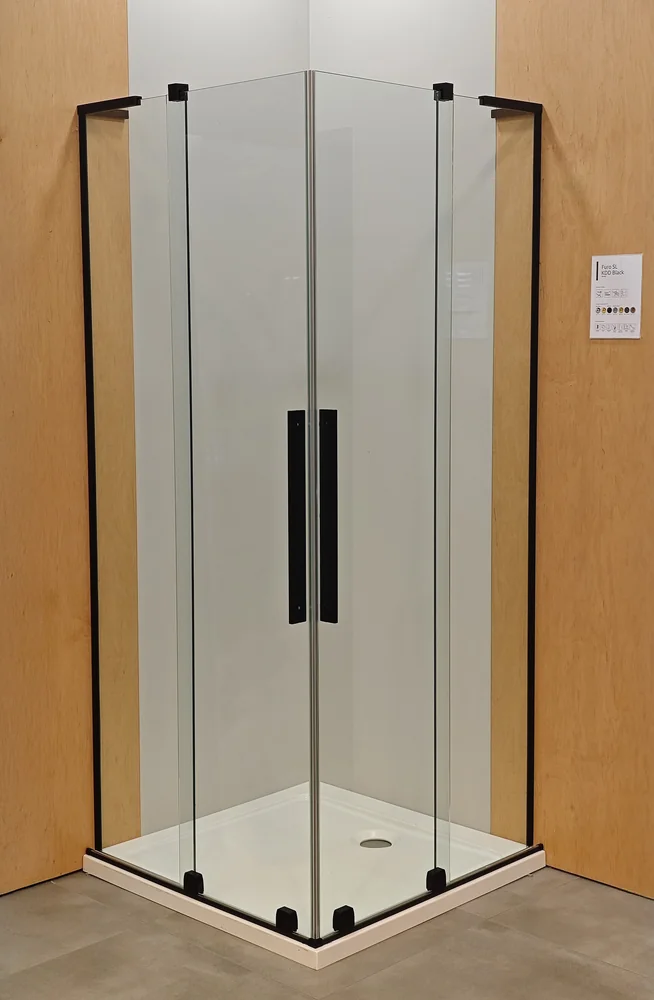
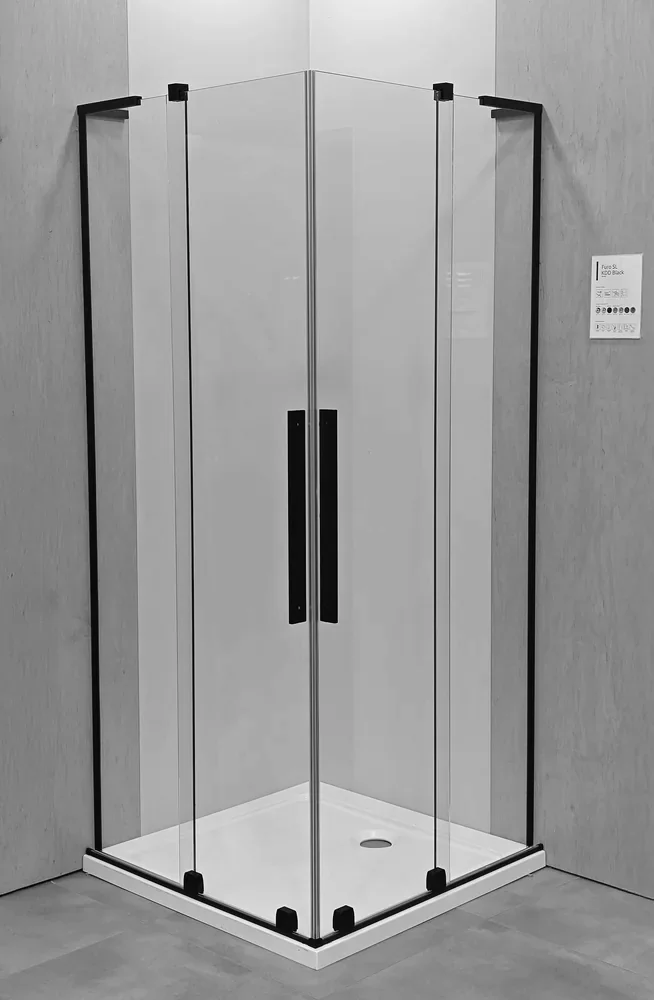
feat(render): le foto di FORMA (persiane, pergole, doccia/vasca/sanitari/mobili) diventano bianco e nero
Nella verifica in produzione le persiane 'nero intenso' sono uscite marrone
scuro: la foto di riferimento del tipo (persiana in legno verde/marrone)
tirava il colore. Le foto che servono solo per la forma ora sono in bianco e
nero, e l'etichetta lo dice al modello: colore e materiale vengono dal testo.
Restano a colori le texture (tetto, pavimenti, piastrelle, facciata) e le
sezioni dei profili, dove il colore E' l'informazione.

diff --git a/shared/render-references/bathroomReferences.ts b/shared/render-references/bathroomReferences.ts
@@ -67,19 +67,19 @@ export function collectBathroomReferenceImages(config: BathroomReferenceConfig):
   const s = (config.sostituzione ?? {}) as Record<string, unknown>;
   if ((s.doccia === true || config.doccia?.attivo) && config.doccia?.tipo && SHOWER_TYPE_REFERENCES[config.doccia.tipo]) {
     const e = SHOWER_TYPE_REFERENCES[config.doccia.tipo];
-    out.push(makeReferenceImage(BATHROOM_FOLDER, e.filename, `SHOWER TYPE TARGET — ${config.doccia.tipo}: ${e.shape}. Copy the construction and glass layout; finishes come from the written specification`));
+    out.push(makeReferenceImage(BATHROOM_FOLDER, e.filename, `SHOWER TYPE TARGET — ${config.doccia.tipo}: ${e.shape}. Copy the construction and glass layout — the photo is deliberately black-and-white: finishes and colours come from the written specification`));
   } else if ((s.vasca === true || config.vasca?.attivo) && config.vasca?.tipo && BATHTUB_TYPE_REFERENCES[config.vasca.tipo]) {
     const e = BATHTUB_TYPE_REFERENCES[config.vasca.tipo];
-    out.push(makeReferenceImage(BATHROOM_FOLDER, e.filename, `BATHTUB TYPE TARGET — ${config.vasca.tipo}: ${e.shape}. Copy the construction; colour and material come from the written specification`));
+    out.push(makeReferenceImage(BATHROOM_FOLDER, e.filename, `BATHTUB TYPE TARGET — ${config.vasca.tipo}: ${e.shape}. Copy the construction — the photo is deliberately black-and-white: colour and material come from the written specification`));
   } else if ((s.sanitari === true || config.sanitari?.attivo) && config.sanitari?.azione_wc === "sostituisci" && (config.sanitari?.tipo_wc === "sospeso" || config.sanitari?.tipo_wc === "rimless_sospeso")) {
     const e = SANITARY_REFERENCES.wc_sospeso;
-    out.push(makeReferenceImage(BATHROOM_FOLDER, e.filename, `TOILET TYPE TARGET — ${config.sanitari.tipo_wc}: ${e.shape}. Copy the wall-hung construction; colour from the written specification`));
+    out.push(makeReferenceImage(BATHROOM_FOLDER, e.filename, `TOILET TYPE TARGET — ${config.sanitari.tipo_wc}: ${e.shape}. Copy the wall-hung construction — the photo is deliberately black-and-white: colour from the written specification`));
   } else if ((s.sanitari === true || config.sanitari?.attivo) && (config.sanitari?.azione_bidet === "sostituisci" || config.sanitari?.azione_bidet === "aggiungi") && config.sanitari?.tipo_bidet === "sospeso") {
     const e = SANITARY_REFERENCES.bidet_sospeso;
     out.push(makeReferenceImage(BATHROOM_FOLDER, e.filename, `BIDET TYPE TARGET — sospeso: ${e.shape}`));
   } else if ((s.mobile_bagno === true || config.vanity?.attivo) && config.vanity?.stile && VANITY_STYLE_REFERENCES[config.vanity.stile]) {
     const e = VANITY_STYLE_REFERENCES[config.vanity.stile];
-    out.push(makeReferenceImage(BATHROOM_FOLDER, e.filename, `VANITY STYLE TARGET — ${config.vanity.stile}: ${e.shape}. Copy the construction; colour and top material from the written specification`));
+    out.push(makeReferenceImage(BATHROOM_FOLDER, e.filename, `VANITY STYLE TARGET — ${config.vanity.stile}: ${e.shape}. Copy the construction — the photo is deliberately black-and-white: colour and top material from the written specification`));
   }
   const effetto = (s.piastrelle_parete === true || config.piastrelle_parete?.attivo) ? config.piastrelle_parete?.effetto : undefined;
   if (effetto && TILE_EFFECT_REFERENCES[effetto]) {

diff --git a/shared/render-references/outdoorReferences.ts b/shared/render-references/outdoorReferences.ts
@@ -43,7 +43,7 @@ export function collectPoolReferenceImages(config: { operazione?: string | null;
 export function collectPergolaReferenceImages(config: { tipo_struttura?: string | null }): SharedReferenceImage[] {
   const e = config.tipo_struttura ? PERGOLA_TYPE_REFERENCES[config.tipo_struttura] : undefined;
   if (!e) return [];
-  return [makeReferenceImage(OUTDOOR_FOLDER, e.filename, `PERGOLA TYPE TARGET — ${config.tipo_struttura}: ${e.shape}. Copy the structure only; do NOT copy the building, furniture or surroundings of this photo`)];
+  return [makeReferenceImage(OUTDOOR_FOLDER, e.filename, `PERGOLA TYPE TARGET — ${config.tipo_struttura}: ${e.shape}. Copy the structure only — the photo is deliberately black-and-white: colour and finish come from the written specification; do NOT copy the building, furniture or surroundings`)];
 }
 
 export function listOutdoorReferenceFilenames(): string[] {

diff --git a/shared/render-references/shutterReferences.ts b/shared/render-references/shutterReferences.ts
@@ -80,7 +80,7 @@ export function collectShutterReferenceImages(config: {
     out.push(makeReferenceImage(
       SHUTTER_FOLDER,
       tipo.filename,
-      `SHUTTER MODEL TARGET — ${config.tipo}: ${tipo.shape}. Copy the SHAPE and construction only; colour and material come from the written specification`,
+      `SHUTTER MODEL TARGET — ${config.tipo}: ${tipo.shape}. Copy the SHAPE and construction only — the photo is deliberately black-and-white: colour and material come from the written specification`,
     ));
   }
   const mat = config.materiale ? SHUTTER_MATERIAL_REFERENCES[config.materiale] : undefined;
